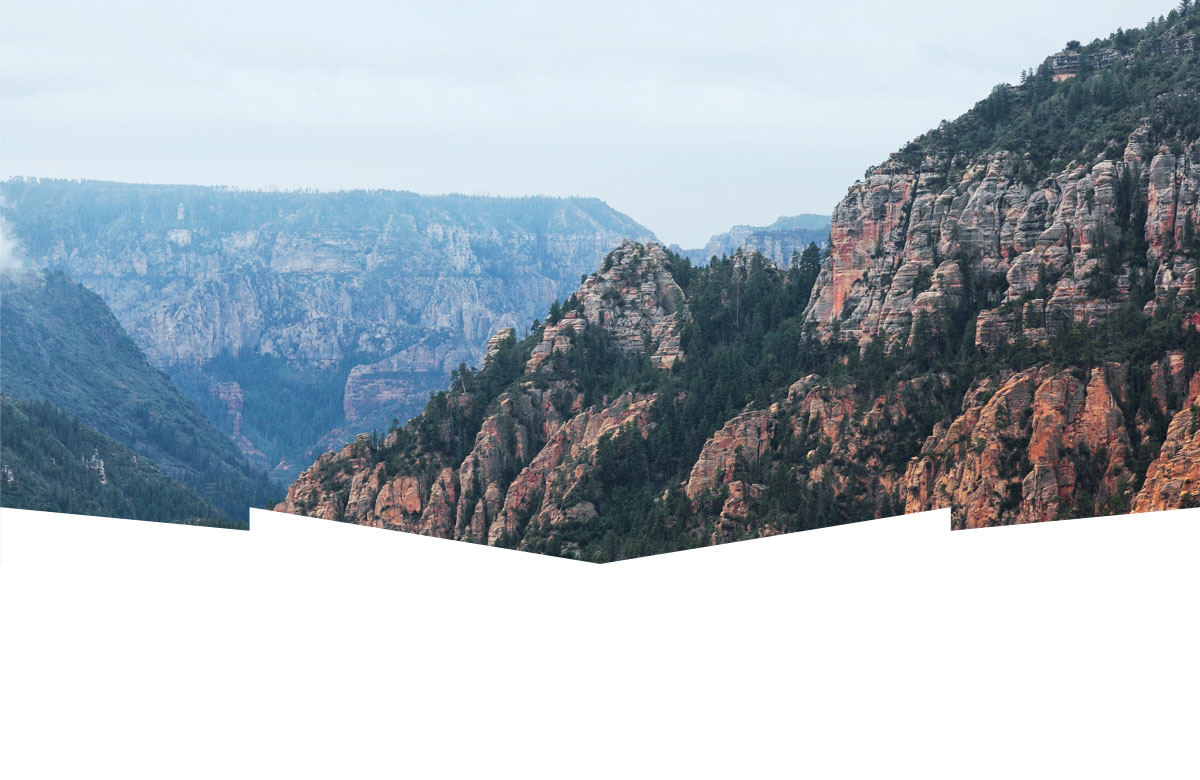
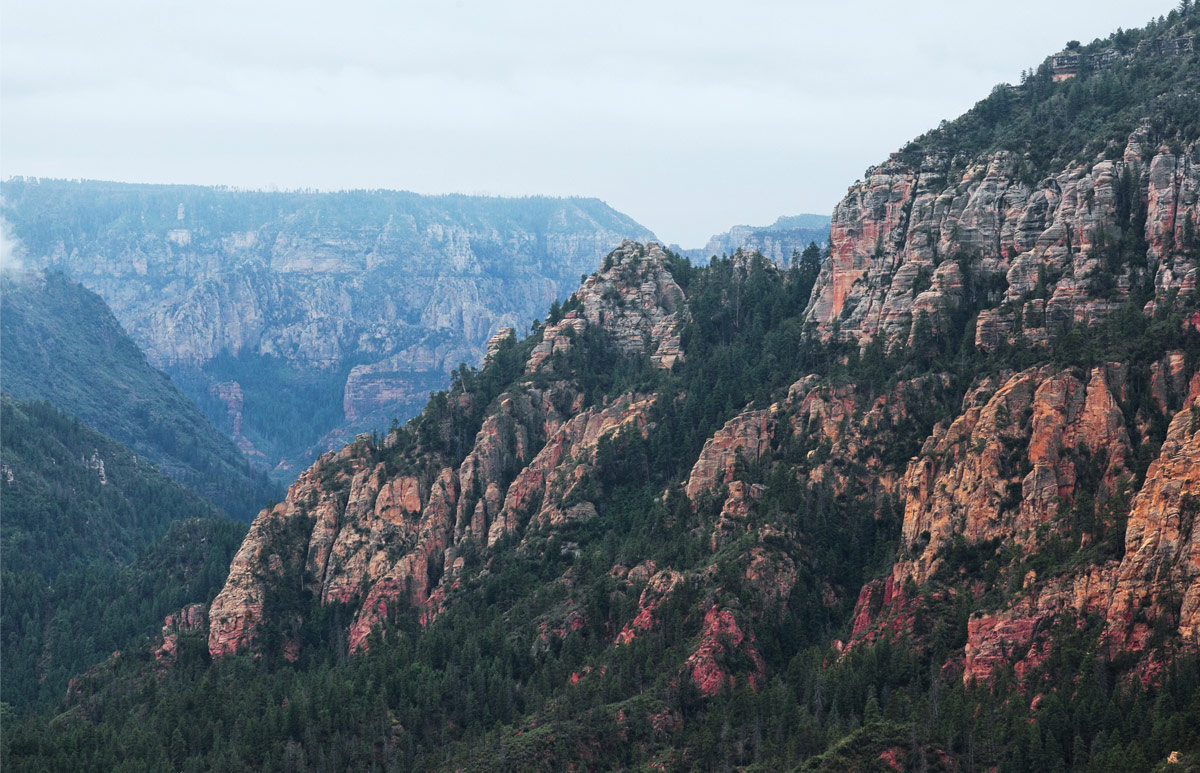
Сделал уголки отдельным псевдоэлементом
Заменил картинки в img

diff --git a/css/style.css b/css/style.css
@@ -125,13 +125,24 @@ p {
 
 /* Фоновое изображение и текст*/
 .intro {
-  padding-top: 80px;
+  position: relative;
+  padding-top: 77px;
   padding-left: 370px;
-  padding-right: 370px;
   background: #ccffff url("../img/bg-photo.jpg") no-repeat;
-  padding-bottom: 25px;
-  height: 555px;
-  background-position: 50% 31%;
+  height: 510px;
+  background-position: 50% 25%;
+}
+
+.intro::after {
+  position: absolute;
+  content: "";
+  display: block;
+  bottom: 0;
+  left: 0;
+  right: 100px;
+  background: url("../img/intro-shape.png");
+  width: 1200px;
+  height: 57px;
 }
 
 .intro img {
